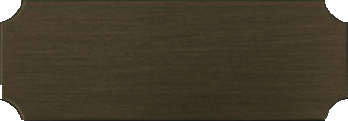
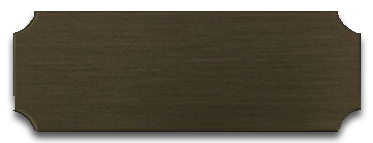
Commit5

Changed region(s): [[0.0, 0.0, 1.0, 1.0]]

diff --git a/hartog.css b/hartog.css
@@ -228,17 +228,18 @@ header{
 }
 .headerOverlay img{
     width:100%;
-    opacity:90%;
 }
 .headerTxt{
     position:absolute;
     top:40%;
-    left:10%;
+    left:6%;
     color:white;
 }
 .headerTxt h1{
+    border-bottom:6px solid white;
+    margin-bottom:20px;
     font-weight:900;
-    padding-bottom:10px;
+    padding-bottom:5px;
     font-size:75px;
 }
 .headerTxt p{
@@ -347,7 +348,7 @@ header{
     left:0;
     text-align:center;
     transition:opacity 0.2s ease;
-    margin-top:120px;
+    margin-top:150px;
     font-size:30px;
     color:white;
     background-color:rgba(0,0,0,0.3);
@@ -355,7 +356,7 @@ header{
 }
 
 .imgoverlay1 h1,.imgoverlay2 h1,.imgoverlay3 h1,.imgoverlay4 h1{
-    margin-top:120px;
+    margin-top:150px;
     padding:10px;
     color:white;
     font-size:30px;
@@ -473,7 +474,7 @@ header{
     padding-top:30px;
     position:relative;
     text-align:center;
-    z-index:2;
+    z-index:3;
     height:550px;
     width:100%;
     box-shadow: 1px 2px 8px 5px #1C1C1C;

diff --git a/index.html b/index.html
@@ -136,7 +136,7 @@
 </nav>
 <header>
 <div class="headerOverlay">
-    <img src="img/header.jpg">
+    <img src="img/header.png">
     <div class="headerTxt">
         <h1>Hartog Lucerne</h1>
         <p>Hartog is dé specialist in ruwvoer en krachtvoer</p>
